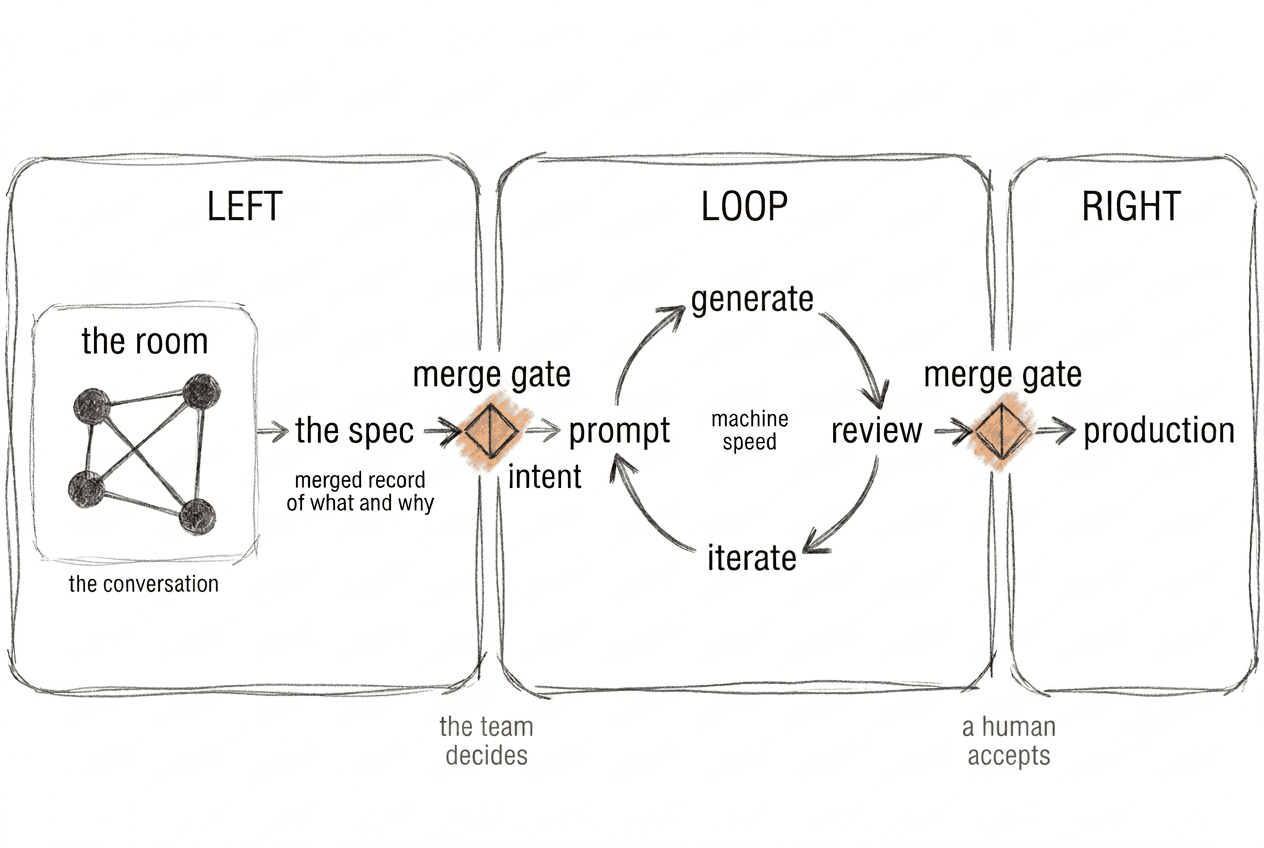
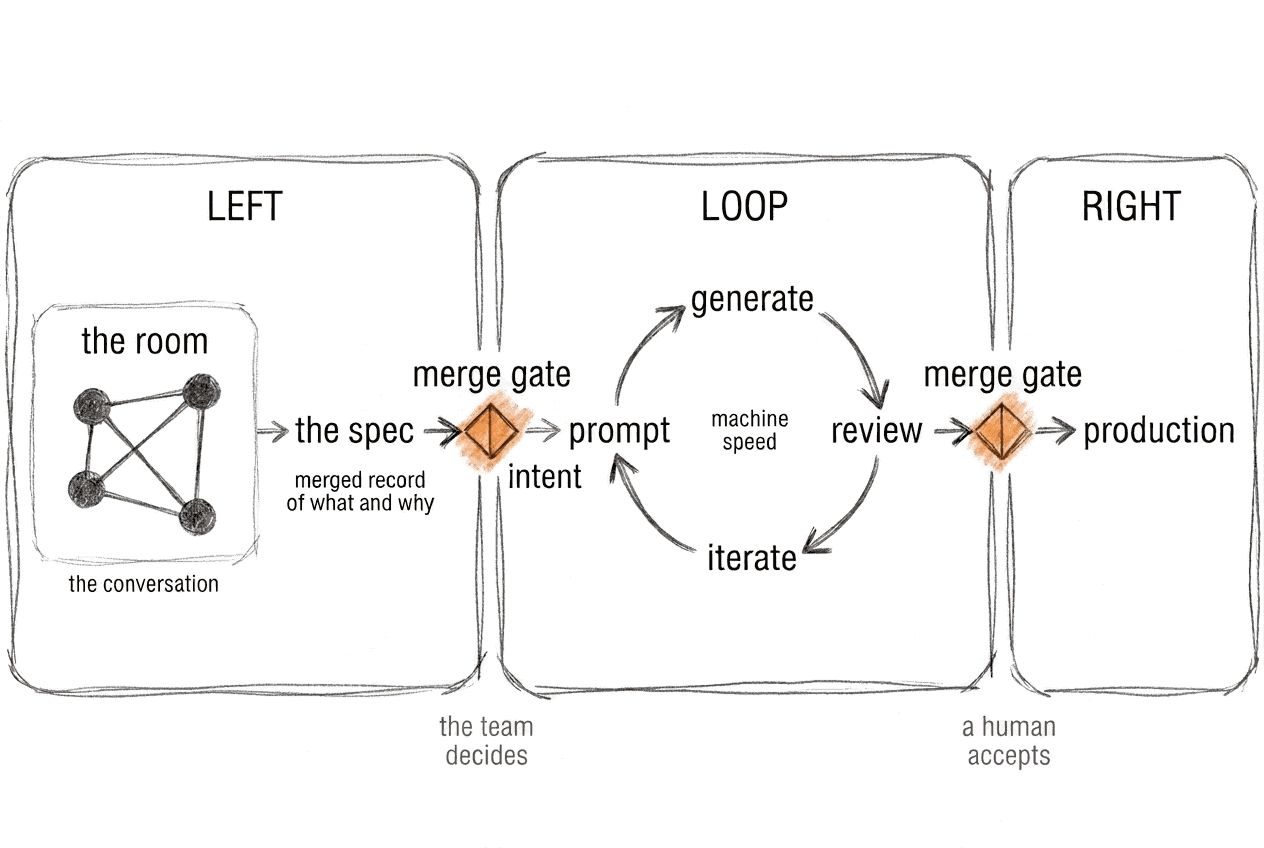
Take the transparent figures, and say the page is light-only
Upstream 5c4766f removed the backgrounds from all four figures. The
scattered loops had come back on a graded cream paper fill that printed
as an off-white rectangle on a white page; the other three sat on plain
white. None of them carries page colour now, which suits this site
better than it suited the source - the drawings sit directly on the
page's off-white instead of on a white plate with a visible seam. The
stray corner artifact went with the cream, so the Astrolabe TODO drops
it.

Re-encoding had to change with them. The old recipe opened the file,
called convert("RGB"), and quantized with MEDIANCUT; against an RGBA
source that silently discards the alpha channel, and MEDIANCUT cannot
carry alpha through in any case. FASTOCTREE is the one PIL quantizer
that can. 128 colours rather than 64, which costs almost nothing here
and holds up better on the antialiased ink: 2.68 MB down to 323 KB, and
the shipped files still report transparency. The README recipe is
corrected, with both traps named, since a future sync that copies the
old one would ship four figures composited onto nothing.

The og card is rebuilt from the transparent source and flattened onto
solid white, because a transparent og image composites to black on
several platforms. Its crop needed a fix too: the background removal
leaves a low alpha noise floor, so a bare getbbox() returned almost the
whole canvas and the card came out mostly margin. Thresholding alpha at
[…]

Changed region(s): [[0.3394, 0.4599, 0.432, 0.5519], [0.7714, 0.4599, 0.8331, 0.5519]]

diff --git a/index.html b/index.html
@@ -3,6 +3,11 @@
 <head>
 <meta charset="utf-8">
 <meta name="viewport" content="width=device-width, initial-scale=1">
+<!-- The page has always been light-only, with hardcoded colours and no dark
+     variant. Saying so matters now that the figures are transparent PNGs:
+     the art is near-black ink, so a browser force-darkening the page would
+     composite it to invisible. Opting out keeps that from happening. -->
+<meta name="color-scheme" content="only light">
 <title>Left of the Loop — When AI writes the code, shared understanding becomes the scarce resource.</title>
 <meta name="description" content="When AI writes the code, shared understanding becomes the scarce resource. A book by Simon Schrottner. Working draft.">
 <link rel="canonical" href="https://leftoftheloop.dev">
@@ -26,6 +31,9 @@
 <meta name="twitter:image" content="https://leftoftheloop.dev/og-the-loop.png">
 
 <style>
+  :root {
+    color-scheme: only light;
+  }
   body {
     max-width: 40em;
     margin: 3em auto;
@@ -221,7 +229,7 @@ picture before we started building the thing.</p>
   <p>&copy; Simon Schrottner. Licensed under <a href="https://creativecommons.org/licenses/by-nc-nd/4.0/">CC BY-NC-ND 4.0</a>.</p>
   <details class="version-history">
     <summary>Version history</summary>
-    <p>Current draft &mdash; manuscript <code>4344903</code>, site <code>PENDING</code>, 2026-08-06.</p>
+    <p>Current draft &mdash; manuscript <code>5c4766f</code>, site <code>PENDING</code>, 2026-08-06.</p>
     <p>What changed in this and every earlier update: <a href="/changelog">changelog</a>.</p>
   </details>
 </footer>

diff --git a/chapters/reader.css b/chapters/reader.css
@@ -1,3 +1,12 @@
+/* Light-only, and now it has to say so: the figures are transparent PNGs of
+   near-black ink, so a browser force-darkening the page would composite them
+   to invisible. Upstream guards the EPUBs with a white plate behind every
+   image; here the page itself opts out, which also keeps the plate from
+   showing as a white rectangle on the off-white background. */
+:root {
+  color-scheme: only light;
+}
+
 body {
   max-width: 40em;
   margin: 3em auto;

diff --git a/README.md b/README.md
@@ -28,7 +28,12 @@ Live at [leftoftheloop.dev](https://leftoftheloop.dev).
   figure is 1.49:1; pointing the meta tags at the figure would let the
   platforms crop the LEFT/LOOP/RIGHT headings off the top. Rebuild it by
   trimming the figure to its ink and centring that on a 1200×630 white
-  canvas with a 48px margin.
+  canvas with a 48px margin. Two things to get right: flatten it onto
+  solid white, because a transparent og image composites to black on
+  several platforms, and threshold the alpha channel at ~25/255 before
+  taking the bounding box — the background removal leaves a noise floor,
+  so a bare `getbbox()` returns almost the whole canvas and the card ends
+  up mostly margin.
 - `CNAME` — GitHub Pages custom domain config.
 - `LICENSE` — CC BY-NC-ND 4.0.
 
@@ -128,20 +133,25 @@ When a new draft is committed here:
    `chapters/reader.js` to match — and on a rename, move the old
    basename into that entry's `aliases`.
 6. Re-encode any figure that changed. Upstream keeps the archival PNGs,
-   some over 5 MB, which is fine for print and not fine for a phone.
-   Quantizing to 64 colours costs nothing visible on ink-drawn art and
-   takes about a tenth of the bytes:
+   which is right for print and heavy for a phone. Quantizing to 128
+   colours costs nothing visible on ink-drawn art and takes about an
+   eighth of the bytes:
 
    ```python
    from PIL import Image
-   im = Image.open(src).convert("RGB")
-   im.quantize(colors=64, method=Image.MEDIANCUT).save(dst, optimize=True)
+   im = Image.open(src)                       # RGBA — do NOT convert("RGB")
+   im.quantize(colors=128, method=Image.FASTOCTREE).save(dst, optimize=True)
    ```
+
+   The figures are transparent PNGs, so the two details above are load-
+   bearing: `convert("RGB")` discards the alpha channel, and `FASTOCTREE`
+   is the only PIL quantizer that carries it through. Check the result
+   still reports `"transparency" in Image.open(dst).info`.
 
    Keep the pixel dimensions as they are — the figures are 1264px wide
    and the reading column is 40em, so they are already exactly the 2×
    source a high-DPI screen wants. If a figure that appears on the
-   landing page changes, rebuild `og-the-loop.png` too (see below).
+   landing page changes, rebuild `og-the-loop.png` too (see above).
 
 ## Analytics
 

diff --git a/CHANGELOG.md b/CHANGELOG.md
@@ -11,14 +11,14 @@ Each entry has two commit references:
 - **Manuscript** — the commit in the private `aepfli/left-of-the-loop`
   source repo the build was pulled from.
 
-## 2026-08-06 — manuscript `4344903`
+## 2026-08-06 — manuscript `5c4766f`
 
 Site: `PENDING`
 
 A figures update. The four diagrams are now hand-drawn rather than
-vector, and they read as one set: ink on white over a faint grid, one
-warm-orange accent that means a human is deciding, and a diamond that
-means the merge gate.
+vector, and they read as one set: ink over a faint grid, one warm-orange
+accent that means a human is deciding, and a diamond that means the
+merge gate.
 
 - All four figures replaced with the hand-drawn versions — the Loop, the
   Desk, the Trireme fields, and the scattered loops
@@ -33,14 +33,21 @@ means the merge gate.
   containment and a feedback arrow while the prose around it argues
   centralized infrastructure and cost visibility, and it was close to a
   redraw of the Loop besides
-- The scattered-loops figure is restyled but not final; its headings are
-  still typeset rather than hand-lettered
+- All four figures then had their backgrounds removed. The scattered
+  loops had come back on a graded cream paper fill that printed as an
+  off-white rectangle on a white page; the other three sat on plain
+  white. None of them carries page colour now, and the stray artifact in
+  the corner of the scattered loops went with the cream
+- The scattered-loops figure is still not final; its headings are typeset
+  rather than hand-lettered
 - No prose changed beyond the Trireme caption and the cut figure's line
 
 The landing page gains the Loop figure, which is the one diagram that
 explains the book's title, and a social preview card built from it.
 Chapter pages serve the figures re-encoded for the web — same images,
-about a tenth of the bytes.
+an eighth of the bytes — and both pages now declare themselves
+light-only, so a browser that force-darkens the page can't composite
+near-black ink into an invisible figure.
 
 ## 2026-07-28 — manuscript `4702417`
 

diff --git a/chapters/md/211-the-astrolabe.md b/chapters/md/211-the-astrolabe.md
@@ -6,7 +6,7 @@
 
 Most developers are running their own agent.
 
-<!-- TODO: restyled but not final. Outstanding: the two headings and "x20" are typeset, not hand-lettered; the headings sit outside the panel frames instead of inside them; the grid stops at the panel edges instead of running behind the whole sheet; and a stray four-pointed sparkle sits in the bottom right of the right panel. -->
+<!-- TODO: restyled but not final. Outstanding: the two headings and "x20" are typeset, not hand-lettered; the headings sit outside the panel frames instead of inside them; and the grid stops at the panel edges instead of running behind the whole sheet. -->
 ![Twenty developers, twenty separate agent loops, versus one team running a single shared loop.](figures/scattered-loops.png)
 
 Not every team, every individual. Local machine. Local workflow. Local configuration. Local prompting habits built up through private experimentation that nobody else sees. The AGENTS.md[^c11-agents] file, if it exists at all, was written by whoever set up the project and hasn't been touched since. The skills and MCPs each engineer uses reflect their own discovery process alone.
